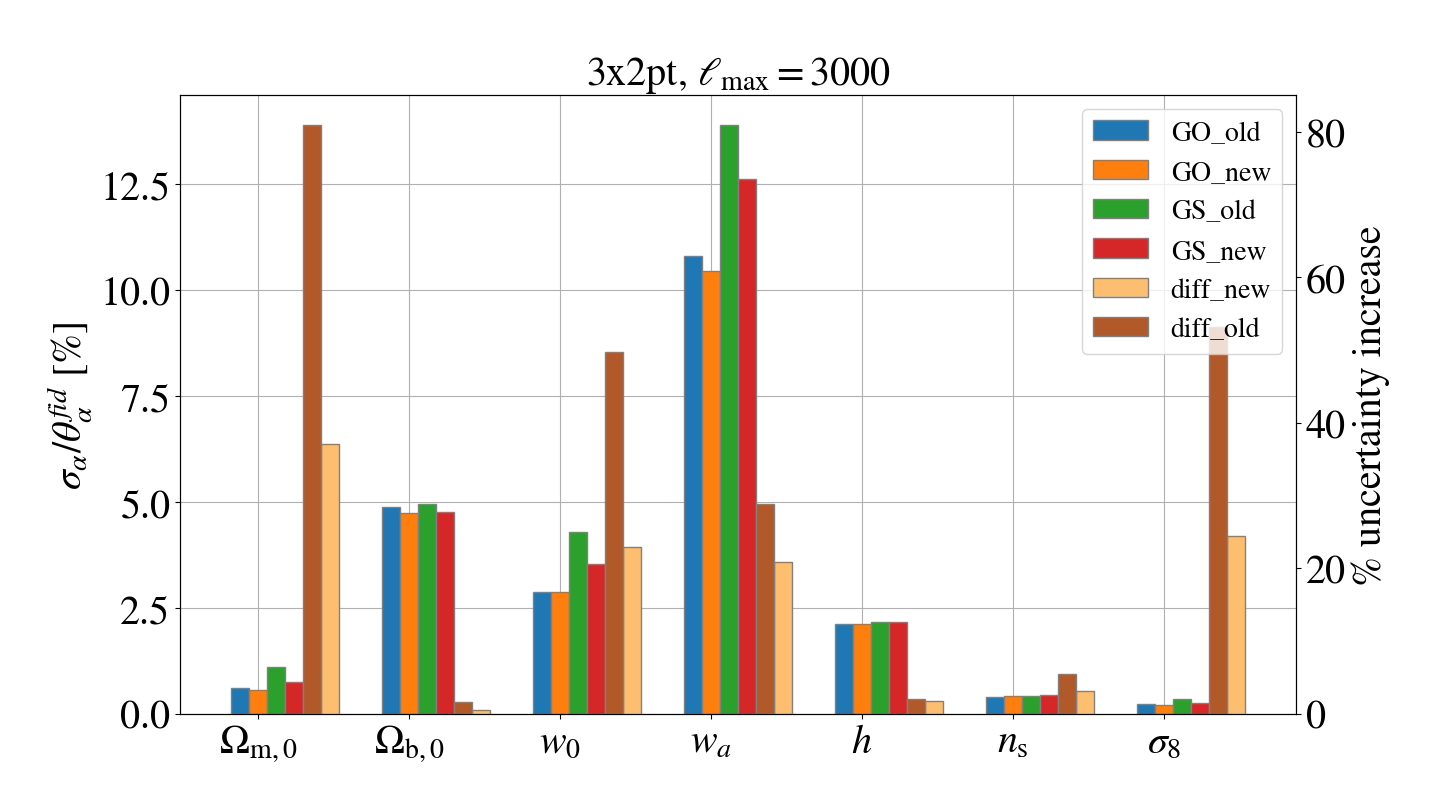
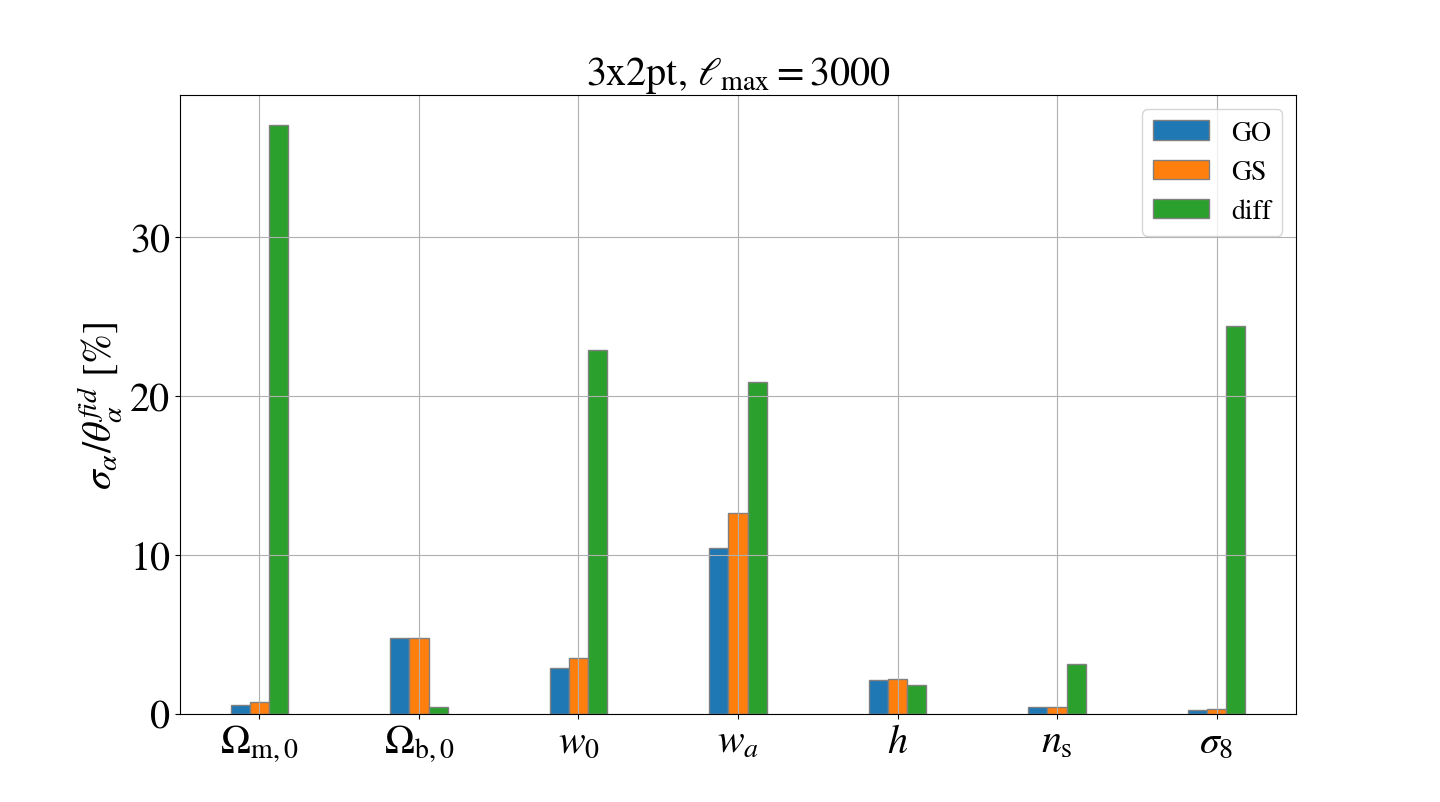
messed around with plot.py in SPV3, you should re-check it but it works

diff --git a/jobs/SPV3/bin/plot.py b/jobs/SPV3/bin/plot.py
@@ -41,7 +41,7 @@ which_job = 'SPV3'
 model = 'flat'
 which_diff = 'normal'
 specs = f'NonFlat-GR-TB-idMag0-idRSD0-idFS0-idSysWL3-idSysGC4-EP{zbins}'
-check_old_FM = True
+check_old_FM = False
 fix_dz_nuisance = True  # whether to remove the rows/cols for the dz nuisance parameters (ie whether to fix them)
 fix_shear_bias = True  # whether to remove the rows/cols for the shear bias nuisance parameters (ie whether to fix them)
 w0wa_rows = [2, 3]
@@ -100,7 +100,8 @@ for probe in ['WL', 'GC', '3x2pt']:
 
     if probe == 'WL':
         ell_max = ell_max_WL
-        pars_labels_TeX = mpl_cfg.general_dict['cosmo_labels_TeX'] + mpl_cfg.general_dict['IA_labels_TeX'] + mpl_cfg.general_dict['shear_bias_labels_TeX']
+        pars_labels_TeX = mpl_cfg.general_dict['cosmo_labels_TeX'] + mpl_cfg.general_dict['IA_labels_TeX'] + \
+                          mpl_cfg.general_dict['shear_bias_labels_TeX']
         fid = np.concatenate((fid_cosmo, fid_IA), axis=0)
     else:
         ell_max = ell_max_GC
@@ -161,25 +162,26 @@ for probe in ['WL', 'GC', '3x2pt']:
 
     ########################################################################################################################
 
-
     data = []
     fom = {}
     uncert = {}
-    for FM, case in zip([FM_GO_old, FM_GO, FM_GS_old, FM_GS], ('GO_old', 'GO_new', 'GS_old', 'GS_new')):
+    cases = ['GO', 'GS']
+
+    for FM, case in zip([FM_GO, FM_GS], cases):
         uncert[case] = np.asarray(mm.uncertainties_FM(FM, nparams=nparams, fiducials=fid,
                                                       which_uncertainty=which_uncertainty, normalize=True))
         fom[case] = mm.compute_FoM(FM, w0wa_rows=w0wa_rows)
 
     # set uncertainties to 0 for \Omega_DE in the non-flat case, where Ode was not a free parameter
     if model == 'nonflat':
-        for case in ('GO_old', 'GS_old'):
+        for case in cases:
             uncert[case] = np.insert(arr=uncert[case], obj=1, values=1, axis=0)
             uncert[case] = uncert[case][:nparams]
 
-    uncert['diff_old'] = diff_funct(uncert['GS_old'], uncert['GO_old'])
-    uncert['diff_new'] = diff_funct(uncert['GS_new'], uncert['GO_new'])
-    uncert['ratio_old'] = uncert['GS_old'] / uncert['GO_old']
-    uncert['ratio_new'] = uncert['GS_new'] / uncert['GO_new']
+    # uncert['diff_old'] = diff_funct(uncert['GS_old'], uncert['GO_old'])
+    uncert['diff'] = diff_funct(uncert['GS'], uncert['GO'])
+    # uncert['ratio_old'] = uncert['GS_old'] / uncert['GO_old']
+    # uncert['ratio'] = uncert['GS'] / uncert['GO']
 
     uncert_vinc = {
         'flat': {
@@ -207,21 +209,21 @@ for probe in ['WL', 'GC', '3x2pt']:
     }
 
     # print my and vincenzo's uncertainties and check that they are sufficiently close
-    with np.printoptions(precision=3, suppress=True):
-        print(f'ratio GS/GO, probe: {probe}')
-        print('dav:', uncert["ratio_new"])
-        print('vin:', uncert_vinc[model][f"{probe}_{pes_opt}"])
+    # with np.printoptions(precision=3, suppress=True):
+    # print(f'ratio GS/GO, probe: {probe}')
+    # print('dav:', uncert["ratio"])
+    # print('vin:', uncert_vinc[model][f"{probe}_{pes_opt}"])
 
-    model_here = model
-    if not fix_shear_bias:
-        model_here += '_shearbias'
-    assert np.allclose(uncert["ratio_new"], uncert_vinc[model_here][f"{probe}_{pes_opt}"], atol=0,
-                       rtol=1e-2), 'my uncertainties differ from vincenzos'
+    # model_here = model
+    # if not fix_shear_bias:
+    #     model_here += '_shearbias'
+    # assert np.allclose(uncert["ratio"], uncert_vinc[model_here][f"{probe}_{pes_opt}"], atol=0,
+    #                    rtol=1e-2), 'my uncertainties differ from vincenzos'
 
     if check_old_FM:
         cases = ['GO_old', 'GO_new', 'GS_old', 'GS_new', 'diff_old', 'diff_new']
     else:
-        cases = ['GO_new', 'GS_new', 'diff_new']
+        cases.append('diff')
 
     for case in cases:
         data.append(uncert[case])
@@ -229,7 +231,7 @@ for probe in ['WL', 'GC', '3x2pt']:
     if bar_plot:
         data = np.asarray(data)
         plot_utils.bar_plot(data, title, cases, nparams=nparams, param_names_label=pars_labels_TeX, bar_width=0.12,
-                            second_axis=True, no_second_axis_bars=2)
+                            second_axis=False, no_second_axis_bars=1)
 
     # if probe == '3x2pt':
     #     plot_utils.triangle_plot(FM_GO_old, FM_GS_old, fiducials=fid,
@@ -238,11 +240,8 @@ for probe in ['WL', 'GC', '3x2pt']:
     plt.savefig(job_path / f'output/plots/{which_comparison}/'
                            f'{probe}_ellmax{ell_max}_Rl{which_Rl}_{which_uncertainty}.png')
 
-assert 1 > 2
-
-
-# compute and print FoM
-print('GO FoM:', mm.compute_FoM(FM_GO))
-print(f'GS Rl_{which_Rl} FoM:', mm.compute_FoM(FM_GS))
+    # compute and print FoM
+    print('GO FoM:', mm.compute_FoM(FM_GO))
+    print(f'GS Rl_{which_Rl} FoM:', mm.compute_FoM(FM_GS))
 
 print('*********** done ***********')

diff --git a/bin/plots_FM_running.py b/bin/plots_FM_running.py
@@ -82,6 +82,8 @@ def bar_plot(data, title, label_list, bar_width=0.18, nparams=7, param_names_lab
     data: usually the percent uncertainties, but could also be the percent difference
     """
 
+    # colors = cm.Paired(np.linspace(0, 1, data.shape[1]))
+
     # Set position of bar on x-axis
     bar_centers = np.zeros(data.shape)
 
@@ -91,25 +93,24 @@ def bar_plot(data, title, label_list, bar_width=0.18, nparams=7, param_names_lab
         bar_centers = np.expand_dims(bar_centers, 0)
 
     else:
-        for i in range(data.shape[0]):
-            if i == 0:
-                bar_centers[i, :] = np.arange(data.shape[1]) - bar_width
+        for bar_idx in range(data.shape[0]):
+            if bar_idx == 0:
+                bar_centers[bar_idx, :] = np.arange(data.shape[1]) - bar_width
             else:
-                bar_centers[i, :] = [x + i * bar_width for x in bar_centers[0]]
+                bar_centers[bar_idx, :] = [x + bar_idx * bar_width for x in bar_centers[0]]
 
     # plt.grid()
 
     if second_axis:
 
-        colors = cm.Paired(np.linspace(0, 1, no_second_axis_bars + 1))
 
         # assert data.shape[0] == 3, "data must have 3 rows to display the second axis"
 
         # plt.rcParams['axes.axisbelow'] = True
 
         fig, ax = plt.subplots(figsize=mpl_cfg.mpl_rcParams_dict['figure.figsize'])
-        for i in range(data.shape[0] - no_second_axis_bars):
-            ax.bar(bar_centers[i, :], data[i, :], width=bar_width, edgecolor='grey', label=label_list[i])
+        for bar_idx in range(data.shape[0] - no_second_axis_bars):
+            ax.bar(bar_centers[bar_idx, :], data[bar_idx, :], width=bar_width, edgecolor='grey', label=label_list[bar_idx])
 
         # Add some text for labels, title and custom x-axis tick labels, etc.
         ax.grid()
@@ -123,7 +124,7 @@ def bar_plot(data, title, label_list, bar_width=0.18, nparams=7, param_names_lab
         ax2.set_ylabel('% uncertainty increase')
         for bar_idx in range(1, no_second_axis_bars + 1):
             ax2.bar(bar_centers[-bar_idx, :], data[-bar_idx, :], width=bar_width, edgecolor='grey',
-                    label=label_list[-bar_idx], color=colors[bar_idx])
+                    label=label_list[-bar_idx], color='g')
         ax2.tick_params(axis='y')
 
         fig.legend(loc="upper right", bbox_to_anchor=(1, 1), bbox_transform=ax.transAxes)
@@ -132,8 +133,8 @@ def bar_plot(data, title, label_list, bar_width=0.18, nparams=7, param_names_lab
         plt.figure(figsize=mpl_cfg.mpl_rcParams_dict['figure.figsize'])
 
         # Make the plot
-        for i in range(data.shape[0]):
-            plt.bar(bar_centers[i, :], data[i, :], width=bar_width, edgecolor='grey', label=label_list[i])
+        for bar_idx in range(data.shape[0]):
+            plt.bar(bar_centers[bar_idx, :], data[bar_idx, :], width=bar_width, edgecolor='grey', label=label_list[bar_idx])
 
         # Adding xticks
         plt.ylabel(ylabel_sigma_relative_fid)

diff --git a/jobs/SPV3/bin/main_SPV3.py b/jobs/SPV3/bin/main_SPV3.py
@@ -42,10 +42,6 @@ mpl.rcParams.update(mpl_cfg.mpl_rcParams_dict)
 
 start_time = time.perf_counter()
 
-# TODO ind will be different for the different number of z bins ✅
-# TODO finish exploring the cls ✅
-# TODO make sure you changed fsky ✅
-# TODO change sigma_eps2? ✅
 # TODO check that the number of ell bins is the same as in the files
 # TODO double check the delta values
 # TODO update consistency_checks
@@ -277,11 +273,23 @@ for general_cfg['zbins'] in zbins_SPV3:
             # save 6D for Stefano
             if covariance_cfg['save_covariance_6D'] and ell_max_WL == 5000:
                 ndim = 6
-                np.save(f'{covmat_path}/covmat_GO_WL_lmaxWL{ell_max_WL}_nbl{nbl_WL}_zbins{zbins:02}_{EP_or_ED}_{ndim}D.npy',
-                        cov_dict['cov_WL_GO_{ndim}D'])
-                np.save(f'{covmat_path}/covmat_GO_GC_lmaxGC{ell_max_GC}_nbl{nbl_GC}_zbins{zbins:02}_{EP_or_ED}_{ndim}D.npy',
-                        cov_dict['cov_GC_GO_{ndim}D'])
+                for which_cov in ['GO', 'GS']:
+                    np.save(f'{covmat_path}/covmat_{which_cov}_WL_lmaxWL{ell_max_WL}_nbl{nbl_WL}_zbins{zbins:02}_{EP_or_ED}_{ndim}D.npy',
+                            cov_dict[f'cov_WL_{which_cov}_{ndim}D'])
+                    np.save(f'{covmat_path}/covmat_{which_cov}_GC_lmaxGC{ell_max_GC}_nbl{nbl_GC}_zbins{zbins:02}_{EP_or_ED}_{ndim}D.npy',
+                            cov_dict[f'cov_GC_{which_cov}_{ndim}D'])
 
+            # check for Stefano
+            print('GHOST CODE BELOW')
+            npairs = 91
+            cov_WL_GO_4D = mm.cov_6D_to_4D(cov_dict[f'cov_WL_GO_6D'], nbl_WL, npairs, ind[:npairs,:])
+            cov_GC_GO_4D = mm.cov_6D_to_4D(cov_dict[f'cov_GC_GO_6D'], nbl_GC, npairs, ind[:npairs,:])
+            cov_WL_GS_4D = mm.cov_6D_to_4D(cov_dict[f'cov_WL_GS_6D'], nbl_WL, npairs, ind[:npairs,:])
+            cov_GC_GS_4D = mm.cov_6D_to_4D(cov_dict[f'cov_GC_GS_6D'], nbl_GC, npairs, ind[:npairs,:])
+            print(np.array_equal(cov_WL_GO_4D, cov_dict[f'cov_WL_GO_4D']))
+            print(np.array_equal(cov_GC_GO_4D, cov_dict[f'cov_GC_GO_4D']))
+            print(np.array_equal(cov_WL_GS_4D, cov_dict[f'cov_WL_GS_4D']))
+            print(np.array_equal(cov_GC_GS_4D, cov_dict[f'cov_GC_GS_4D']))
 
 assert 1 == 0, 'stop here'
 

diff --git a/jobs/CMBX/bin/unpack_stephane_FM.py b/jobs/CMBX/bin/unpack_stephane_FM.py
@@ -28,7 +28,7 @@ matplotlib.use('Qt5Agg')
 #         for cosmo_model in ['LCDM', 'w0waCDM']:
 
 case = 'opti'
-CMB_probe = 'CMB'  # CMB or CMBphionly
+CMB_probe = 'CMB'  # == all CMB probes (T, E, phi) or just phi
 CMB_obs = 'planck'  # "planck" or "SO" or "S4"
 mode = 'p'
 cosmo_model = 'w0waCDM'  # w0waCDM or LCDM
